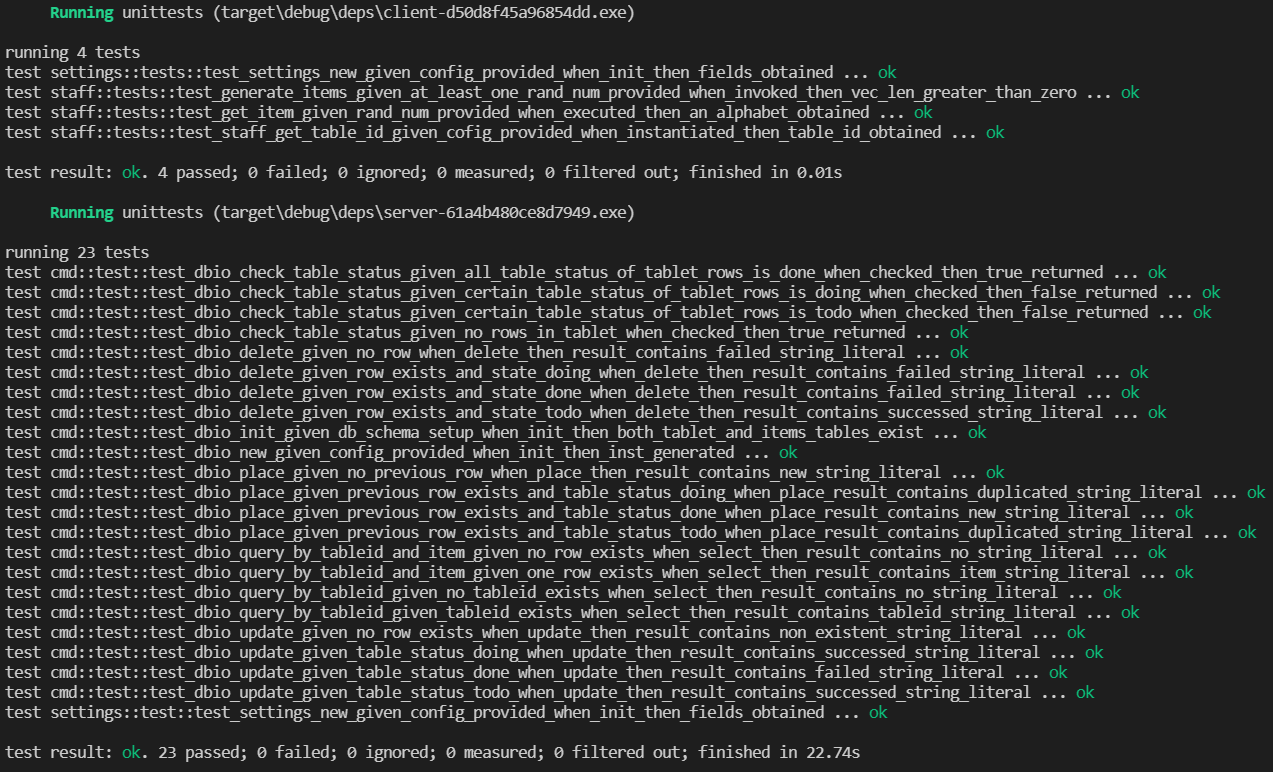
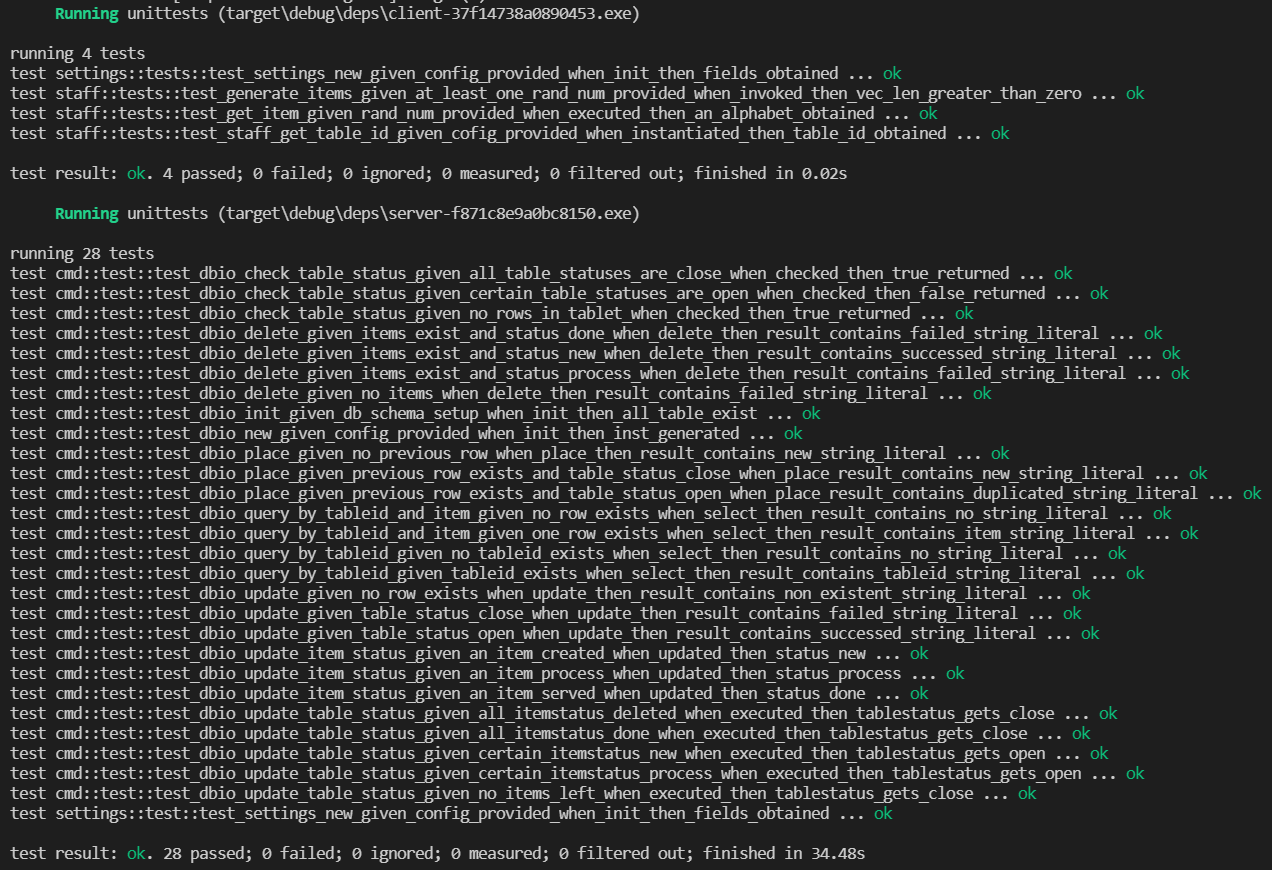
[FIX] updated readme descriptions

diff --git a/readme.md b/readme.md
@@ -7,7 +7,7 @@ The project is developed for the [interview problem](https://github.com/paidy/in
 | :----------------------------------------------------------------------------------------------------------------------------------------------------------------------------------- | :----: | :--------------: | :-------------------------------: |
 | Show all items for a specified table number                                                                                                                                          |  GET   |        N         |    /api/status/order/:table_id    |
 | Show a specified item for a specified table number                                                                                                                                   |  GET   |        N         | /api/status/order/:table_id/:item |
-| Create a request: store item, table number and cooking period                                                                                                                        |  POST  |        Y         |         /api/place/order          |
+| Create a request: ask the back house to prepare items for a specified table                                                                                                          |  POST  |        Y         |         /api/place/order          |
 | Delete a request: remove a specified item for a specified table number                                                                                                               | DELETE |        Y         |         /api/delete/order         |
 | Update a request: for a created request not fully served, a staff is able to update amounts of specified items and add new items on the same order, but served items are not updated | PATCH  |        Y         |         /api/update/order         |
 
@@ -26,7 +26,7 @@ The project is developed for the [interview problem](https://github.com/paidy/in
     ```toml
     [client]
     base_url = "http://127.0.0.1:8080"
-    timeout = 3 # secs
+    timeout = 100 # secs
     
     [api]
     place_order = "/api/place/order"
@@ -76,7 +76,7 @@ Usually, you can test on your own by [curl](https://linux.die.net/man/1/curl) co
     JSON Request Format:
     ```json
     {
-    	"timestamp": 1234567890123,
+    	"created_at": "2018-12-10T13:49:51.141456Z",
     	"table_id":"4",
     	"items": [
     		{"name":"A", "amount":1},
@@ -90,7 +90,7 @@ Usually, you can test on your own by [curl](https://linux.die.net/man/1/curl) co
     
     ```json
     {
-        \"timestamp\":1234567890123,
+        \"created_at\":\"2018-12-10T13:49:51.141456Z\",
         \"table_id\":\"4\",
         \"items\": [
             {\"name\":\"A\", \"amount\":1}, 
@@ -108,7 +108,7 @@ Usually, you can test on your own by [curl](https://linux.die.net/man/1/curl) co
     JSON Request Format:
     ```json
     {
-        "timestamp": 1234567890123,
+        "deleted_at": "2018-12-10T13:49:51.5000000Z",
         "table_id": "4",
         "item": "A"
     }
@@ -118,7 +118,7 @@ Usually, you can test on your own by [curl](https://linux.die.net/man/1/curl) co
     Besides that, if you are testing on Windows platforms, slashes ```\``` might be added to skip quotes ```"```.
     ```json
     {
-        \"timestamp\": 1234567890123,
+        \"deleted_at\": \"2018-12-10T13:49:51.5000000Z\",
         \"table_id\": \"4\", 
         \"item\": \"A\"
     }
@@ -131,7 +131,7 @@ Usually, you can test on your own by [curl](https://linux.die.net/man/1/curl) co
     JSON Request Format:
     ```json
     {
-        "timestamp": 1234567890123,
+        "updated_at":"2018-12-10T13:49:52.141000Z",
         "table_id": "4",
         "items": [
             { "name": "A", "amount": 8 },
@@ -145,7 +145,7 @@ Usually, you can test on your own by [curl](https://linux.die.net/man/1/curl) co
     
     ```json
     {
-        \"timestamp\":1234567890123,
+        \"timestamp\":\"2018-12-10T13:49:52.141000Z\",
         \"table_id\":\"4\",
         \"items\": [
             {\"name\":\"A\", \"amount\":8},
@@ -153,48 +153,65 @@ Usually, you can test on your own by [curl](https://linux.die.net/man/1/curl) co
         ]
     }
     ```
-    For example, if you'd like to update the amount of an item that is in **neither ```done``` nor ```doing```** state. The order would be rejected if the specified item is not in **```todo```** state. You can only wait for the table status to be done; relaucn a new order.
+    Note that an item can only be updated when it is still in ```New``` state or it hasn't been ordered yet. Otherwise, you can only wait for the table status to be ```Close```; re-launch a new order.
+
 ## Order Rules
 Considering COVID-19 situation, we have proposed some revised rules for customers to order to avoid consumption of redundant food. 
 
 1. If a table is fully served, a staff could help customers place a new order with both table id and specified items/amounts.
-2. If you'd like to delete a certain item on your order, please tell our staffs for assistance. However, for items that have been ```doing``` or ```done```. We would not serve the requests.
+2. If you'd like to delete a certain item on your order, please tell our staffs for assistance. However, for item whose status is either in ```Process``` or ```Done```, we would not serve the requests.
 3. To check all items' preparation status of your table, ask our staffs to do it for you.
 4. To check a certain item's status of your table, ask our staffs to do it for you.
 5. To update your original order, we only allow 
     
-    [1] items still in ```todo``` state 
+    [1] items still in ```New``` state 
     
     [2] new items haven't been requested
     
-    to be updated on the order waiting for service.
+    to be updated on the order that is waiting for service.
 ## DB Schema Design
 ![db diagram](./imgs/db_diagram.png)
 
-In realistic scenarios, there is a one-to-many mapping between each table and ordered items since each table might contain many items. As a result, I associate both by field ```table_id```. Detailed description of fields is indicated as follows:
+In realistic scenarios, there is a one-to-many mapping between each table and ordered items since each table might contain many items. As a result, I associated both by field ```table_id```. Detailed description of fields is indicated as follows:
 
-| tablet field | timestamp              | table_id      | table_status                                                                      |
-| :----------: | :--------------------- | :------------ | :-------------------------------------------------------------------------------- |
-| description  | The ordered time (UTC) | id of a table | serving status of a table, usually in ```todo```, ```doing``` or ```done``` state |
+For the table ```tablet```, it contains 4 fields ```opened_at```, ```closed_at```, ```table_id``` and ```status```.
 
-| items field | timestamp              | table_id      | item                                             | amount            | item_status                                                                       |
-| :---------: | :--------------------- | :------------ | :----------------------------------------------- | :---------------- | :-------------------------------------------------------------------------------- |
-| description | The ordered time (UTC) | id of a table | item name, limited to upper-case alphabet (A..Z) | amount of an item | serving status of an item, usually in ```todo```, ```doing``` or ```done``` state |
+| tablet field | opened_at                         | closed_at                       | table_id      | tablestatus                                                           |
+| :----------: | :-------------------------------- | :------------------------------ | :------------ | :-------------------------------------------------------------------- |
+|  data type   | timestamptz                       | timestamptz                     | varchar       | tablestatus (enum)                                                    |
+| description  | The start time of the table (UTC) | The end time of the table (UTC) | id of a table | serving status of a table, usually in ```Open``` or ```Close``` state |
 
-Let's compare some terms associative with order results you would see in the db schema.
+For the table ```items```, it contains fields ```created_at```, ```updated_at```, ```table_id```, ```item```, ```amount```, and ```status```
 
-|         -          | ```todo```                                    | ```doing```                                   | ```done```           |
-| :----------------: | :-------------------------------------------- | :-------------------------------------------- | :------------------- |
-| ```item_status```  | waiting to be served                          | being served                                  | served               |
-| ```table_status``` | all items of a table are waiting to be served | one or more items of a table are being served | all items are served |
+| items field | created_at                                                                                               | updated_at                     | table_id      | item                                             | amount            | status                                                                                            |
+| :---------: | :------------------------------------------------------------------------------------------------------- | :----------------------------- | :------------ | :----------------------------------------------- | :---------------- | :------------------------------------------------------------------------------------------------ |
+|  data type  | timestamptz                                                                                              | timestamptz                    | varchar       | varchar                                          | int               | itemstatus (enum)                                                                                 |
+| description | The created time of the order, usually the same as the field ```opened_at``` of table ```tablet``` (UTC) | updated time of the item (UTC) | id of a table | item name, limited to upper-case alphabet (A..Z) | amount of an item | serving status of an item, usually in ```New```, ```Process```, ```Done``` or ```Deleted``` state |
+
+For the table ```item_history```, basically it is identical to the table ```items```. The main difference is that the table ```item_history``` would record items' updated history while the table ```items``` owns the latest statuses of items of a table.  
+
+To identify the cuurent table status and the preparation progress of items, I created both enum types ```tablestatus``` and ```itemstatus```.
+
+For the former, the detail status description is as follows:
+
+|         -         | ```Open```                | ```Close```               |
+| :---------------: | :------------------------ | :------------------------ |
+| ```tablestatus``` | The table is being served | The table is fully served |
+
+For the latter, the detail status description is as follows:
+
+|        -         | ```New```                            | ```Process```               | ```Done```         | ```Deleted```       |
+| :--------------: | :----------------------------------- | :-------------------------- | :----------------- | :------------------ |
+| ```itemstatus``` | The item is placed but not processed | The item is being processed | The item is served | The item is deleted |
+
 ## Unit Tests
-In the project, there are many unit tests regarding to db access operations. In order to prevent interference from each other because of parallelism of test runner, which means it would concurrently launch thread per unit-test at the same time. Therefore, please follow the instruction below to validate correctness of function units.
+In the project, there are many unit tests regarding to db access operations. In order to prevent interference from each other because of parallelism of test runner, which means it would concurrently launch a thread per unit-test at the same time. Therefore, please follow the instruction below to validate correctness of function units.
 
 ```cmd
 cargo test -- --test-threads=1
 ```
 
-In order to avoid unexpected results caused by concurrent access from different threads of unit-test cases, only 1 thread is adopted to run test cases sequentially. The result should be as below:
+In order to avoid unexpected results caused by concurrent accesses from different threads of unit-test cases, only 1 thread is adopted to run test cases sequentially. The result should be as below:
 
 ![unit test result](./imgs/unit_test_result.png)
 
